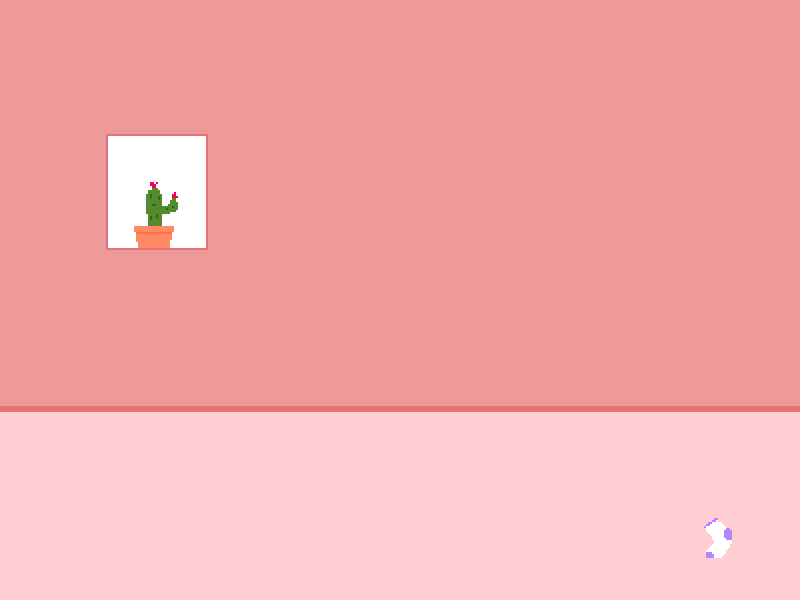
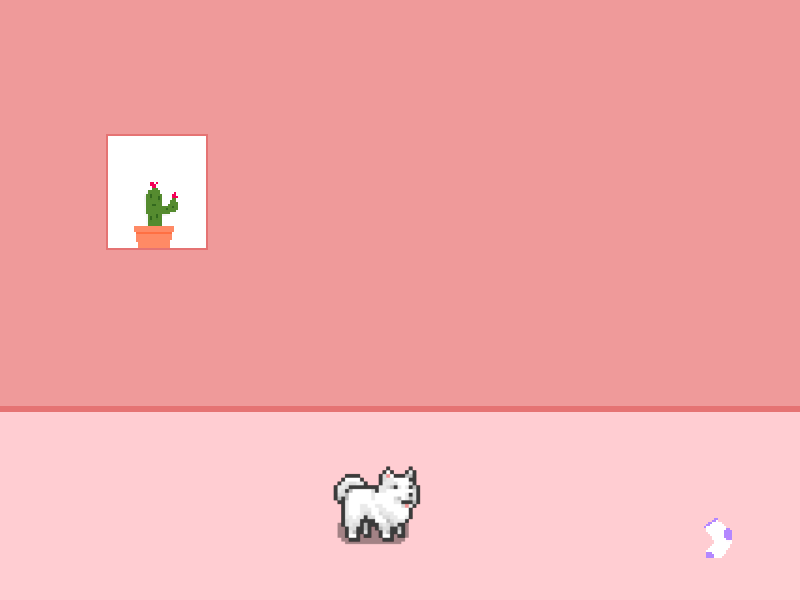
Add files via upload

Changed region(s): [[0.4062, 0.78, 0.5312, 0.93]]

diff --git a/narrative/scripts/sketch.js b/narrative/scripts/sketch.js
@@ -5,9 +5,10 @@ var isEmpty = false;
 var collected = 0;
 var currWorld = "main";
 var hasCat = false;
+var firstBasement = true;
+var firstdog = true;
+var hasDog = false;
 
-var main10 = ["table"];
-//Yes, there is a table there.
 //--------------------------------------------Key of all Commands and Corresponding text-------------------------------------------
 var commandKey = [{
   "command": "coffee",
@@ -116,6 +117,42 @@ var treeCommandKey = [
   {
     "command": "tree",
     "text": "It's a tree."
+  }
+];
+
+var lightCommandKey = [
+  {
+    "command": "light",
+    "text" : "You check out the next room to find the light switch."
+  },
+  {
+    "command": "leave",
+    "text": "You tried to leave, but it's dark and you stubbed your toe."
+  },
+  {
+    "command": "dark",
+    "text": "It's really dark. You need to find the light."
+  }
+];
+
+var darkDogCommandKey = [
+  {
+    "command": "light",
+    "text": "You found the light. Oh. It's just a puppy."
+  }
+];
+
+var lightDogCommandKey = [
+  {
+    "command": "leave",
+    "text": "You're back in the other room"
+  }
+];
+
+var lightBasementCommandKey = [
+  {
+    "command": "leave",
+    "text": "You're back upstairs"
   }
 ];
 
@@ -297,6 +334,8 @@ var mainCommands = [{
 }
 ];
 
+
+
 var outsideCommands = [
   {
     "word" : "tree",
@@ -361,7 +400,68 @@ var treeCommands = [
     "word": "exit",
     "command": "leave"
   }
-]
+];
+
+var lightCommands = [
+  {
+    "word": "light",
+    "command": "light"
+  },
+  {
+    "word": "turn on",
+    "command": "light"
+  },
+  {
+    "word": "find",
+    "command": "light"
+  },
+  {
+    "word": "leave",
+    "command": "leave"
+  },
+  {
+    "word": "back",
+    "command": "leave"
+  },
+  {
+    "word": "exit",
+    "command": "leave"
+  },
+  {
+    "word": "upstairs",
+    "command": "leave"
+  },
+  {
+    "word": "stairs",
+    "command": "leave"
+  },
+  {
+    "word": "dark",
+    "command": "dark"
+  }
+];
+
+var darkDogCommands = [
+  {
+    "word": "light",
+    "command" :  "light"
+  }
+];
+
+var lightDogCommands = [
+  {
+    "word": "leave",
+    "command" :  "leave"
+  }
+];
+
+var lightBasementgCommands = [
+  {
+    "word": "leave",
+    "command" :  "leave"
+  }
+];
+
 function setup() {
 
 }
@@ -390,8 +490,28 @@ function draw(){
    $(".main-content-cat").css("visibility", "hidden");
  }
 
- if(currWorld == "main" && isHot == false){
+ if(currWorld == "main" && isHot == false && isEmpty == false){
      $(".main-content").css("backgroundImage",'url("assets/main.png")');
+ }
+ if(currWorld == "main" && isEmpty == true){
+   $(".main-content").css("backgroundImage",'url("assets/room-coffee-empty.png")');
+ }
+ if(currWorld == "main" && isEmpty == true && hasCat == true && hasDog == false){
+   $("#main-output").text("Hmm, you heard something downstairs... Maybe you should go down there.");
+   $(".text-input").css("visibility", "hidden");
+   $(".basement-input").css("visibility", "visible");
+ }
+ if(currWorld == 'basement' && firstBasement == true){
+   firstBasement = false;
+   $("#main-output").text("It's dark, you should look for a light switch.");
+   $(".main-content").css("backgroundImage", 'url("assets/basement-1.png")');
+   $(".text-input").css("visibility", "visible");
+   $(".basement-input").css("visibility", "hidden");
+ }
+ if(currWorld == "darkDog" && firstdog == true){
+   firstdog == false;
+   $("#main-output").text("You check out the next room to find the light switch.");
+
  }
 }
 
@@ -405,6 +525,18 @@ function keyPressed() {
     }
     if(currWorld == "tree"){
       checkTreeInput();
+    }
+    if(currWorld == "basement"){
+      checkBasementInput();
+    }
+    if(currWorld == "darkDog"){
+      checkDarkDogInput();
+    }
+    if(currWorld == "lightDog"){
+      checkLightDogInput();
+    }
+    if(currWorld == "lightBasement"){
+      checkLightBasementInput();
     }
   }
 }
@@ -435,13 +567,14 @@ function checkInput(){
             isEmpty = true;
             collected++;
             $("#main-control").val("");
-            $(".main-content").css("backgroundImage", 'url("assets/room-coffee-empty.png")');
             $(".award-1").css("visibility", "visible");
             return;
           }
           if(isHot == false && isEmpty == false){
-            $("#main-output").text("YOU DRANK COLD COFFEE. DISGUSTING. GAME OVER.");
+            $("#main-output").text("YOU DRANK COLD COFFEE. N A S T Y. GAME OVER.");
             $("#main-control").val("");
+            $(".reset-input").css("visibility", "visible");
+            $(".text-input").css("visibility", "hidden");
             return;
           }
           $("#main-output").text(commandKey[i].text);
@@ -454,7 +587,7 @@ function checkInput(){
         }
         if(command == "cat"){
           if(hasCat == true){
-            $("#main-output").text(commandKey[i].text);
+            $("#main-o                                       utput").text(commandKey[i].text);
             return;
           } else{
             $("#main-output").text("Having a cat would be cool.");
@@ -538,3 +671,107 @@ function checkTreeInput(){
   }
   $("#main-control").val("");
 }
+
+
+function checkBasementInput(){
+  var found = false;
+  var input = $("#main-control").val();
+  for(var i = 0; i < lightCommands.length; i++){
+    if(input.includes(lightCommands[i].word)){
+      var command = lightCommands[i].command;
+      found = true;
+        $("#main-control").val("");
+    }
+  }
+  if(found == false){
+    $("#main-output").text("I don't know what that means, stop trying to be funny.");
+  }else{
+    for(var i = 0;i < lightCommandKey.length; i++){
+      if(command == lightCommandKey[i].command){
+        if(command == "light"){
+          currWorld = "darkDog";
+          $(".main-content").css("backgroundImage", 'url("assets/eyes.png")');
+        }
+        $("#main-output").text(lightCommandKey[i].text);
+      }
+    }
+  }
+  $("#main-control").val("");
+}
+
+function checkDarkDogInput(){
+    var found = false;
+    var input = $("#main-control").val();
+    for(var i = 0; i < darkDogCommands.length; i++){
+      if(input.includes(darkDogCommands[i].word)){
+        var command = darkDogCommands[i].command;
+        found = true;
+          $("#main-control").val("");
+      }
+    }
+    if(found == false){
+      $("#main-output").text("I don't know what that means, stop trying to be funny.");
+    }else{
+      for(var i = 0;i < darkDogCommandKey.length; i++){
+        if(command == darkDogCommandKey[i].command){
+          if(command == "light"){
+            currWorld = "lightDog";
+            $(".main-content").css("backgroundImage", 'url("assets/basement-dog.png")');
+          }
+          $("#main-output").text(darkDogCommandKey[i].text);
+        }
+      }
+    }
+    $("#main-control").val("");
+  }
+
+  function checkLightDogInput(){
+      var found = false;
+      var input = $("#main-control").val();
+      for(var i = 0; i < lightDogCommands.length; i++){
+        if(input.includes(lightDogCommands[i].word)){
+          var command = lightDogCommands[i].command;
+          found = true;
+            $("#main-control").val("");
+        }
+      }
+      if(found == false){
+        $("#main-output").text("I don't know what that means, stop trying to be funny.");
+      }else{
+        for(var i = 0;i < lightDogCommandKey.length; i++){
+          if(command == lightDogCommandKey[i].command){
+            if(command == "leave"){
+              currWorld = "lightBasement";
+              $(".main-content").css("backgroundImage", 'url("assets/basement-2.png")');
+            }
+            $("#main-output").text(lightDogCommandKey[i].text);
+          }
+        }
+      }
+      $("#main-control").val("");
+    }
+
+    function checkLightBasementInput(){
+        var found = false;
+        var input = $("#main-control").val();
+        for(var i = 0; i < lightDogCommands.length; i++){
+          if(input.includes(lightDogCommands[i].word)){
+            var command = lightDogCommands[i].command;
+            found = true;
+              $("#main-control").val("");
+          }
+        }
+        if(found == false){
+          $("#main-output").text("I don't know what that means, stop trying to be funny.");
+        }else{
+          for(var i = 0;i < lightDogCommandKey.length; i++){
+            if(command == lightDogCommandKey[i].command){
+              if(command == "leave"){
+                currWorld = "main";
+              }
+              $("#main-output").text(lightDogCommandKey[i].text);
+            }
+          }
+        }
+        $("#main-control").val("");
+      }

diff --git a/narrative/style.css b/narrative/style.css
@@ -109,6 +109,26 @@ z-index:100;
 		font-family: "pixel", Courier, monospace;
 
 }
+.reset-input{
+		visibility: hidden;
+		position: fixed;
+	  left: 50%;
+	  bottom: 0px;
+	  transform: translate(-50%, -50%);
+		color:white;
+		font-size:40px;
+		font-family: "pixel", Courier, monospace;
+}
+.basement-input{
+		visibility: hidden;
+		position: fixed;
+	  left: 50%;
+	  bottom: 0px;
+	  transform: translate(-50%, -50%);
+		color:white;
+		font-size:40px;
+		font-family: "pixel", Courier, monospace;
+}
 
 @font-face{
 	font-family: 'pixel';
@@ -130,7 +150,20 @@ z-index:100;
 	border-color: black;
 	font-family: "pixel", Courier, monospace;
 }
-
+#reset-control{
+	background-color:black;
+	color: white;
+	font-size:40px;
+	border-color: white;
+	font-family: "pixel", Courier, monospace;
+}
+#basement-control{
+	background-color:black;
+	color: white;
+	font-size:40px;
+	border-color: white;
+	font-family: "pixel", Courier, monospace;
+}
 .text-output{
 	position: fixed;
 	left: 50%;

diff --git a/narrative/index.html b/narrative/index.html
@@ -44,5 +44,11 @@
 			<option value="no">no</option>
 		</select>
 		</div>
+		<div class="reset-input">
+			<button onclick="location.reload();" id="reset-control">Restart</button>
+		</div>
+		<div class="basement-input">
+			<button  onclick='currWorld = "basement";' id="basement-control">check out basement</button>
+		</div>
 
 </body>
